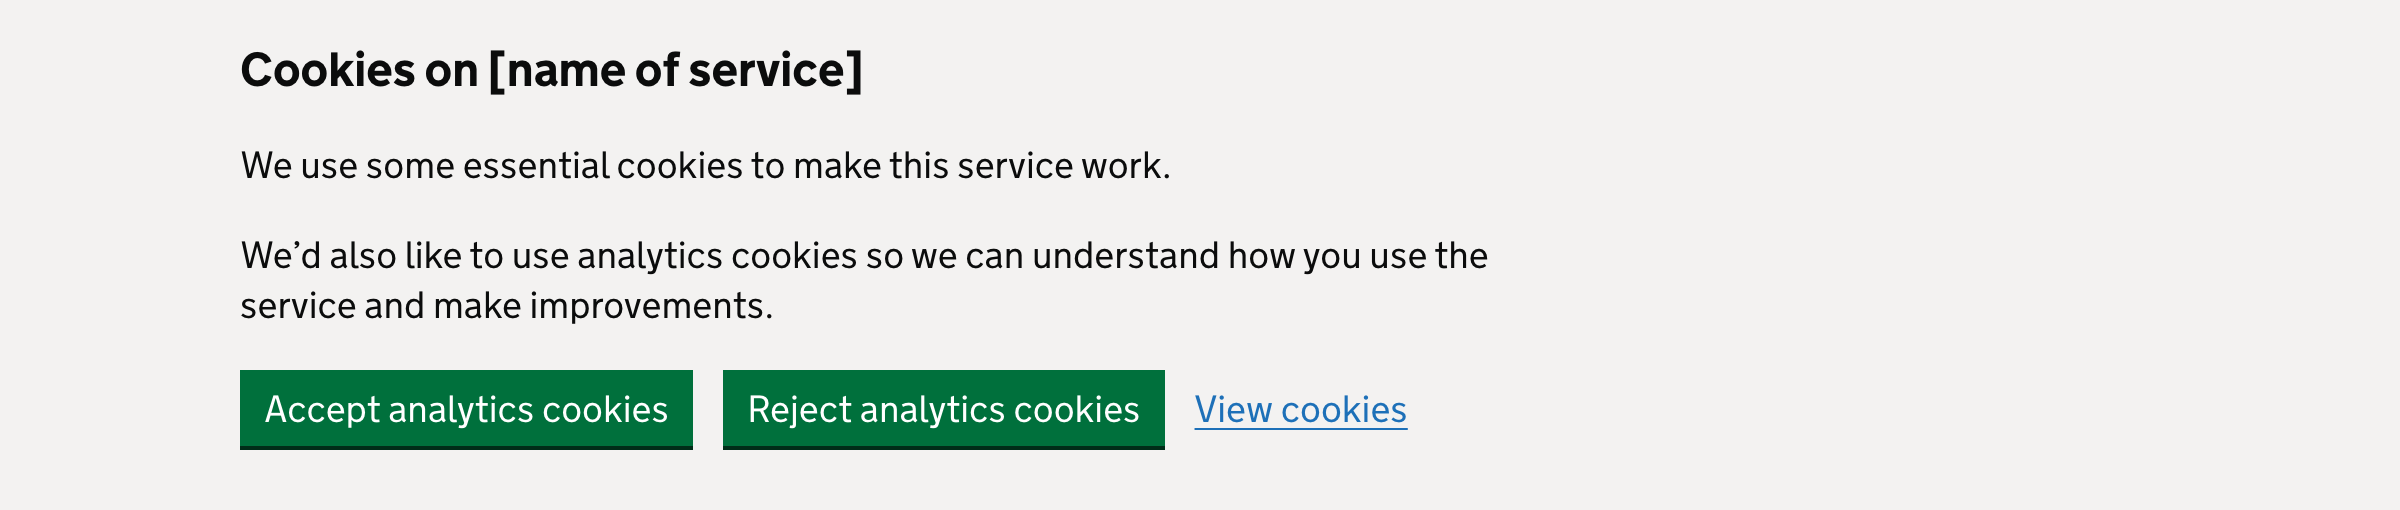
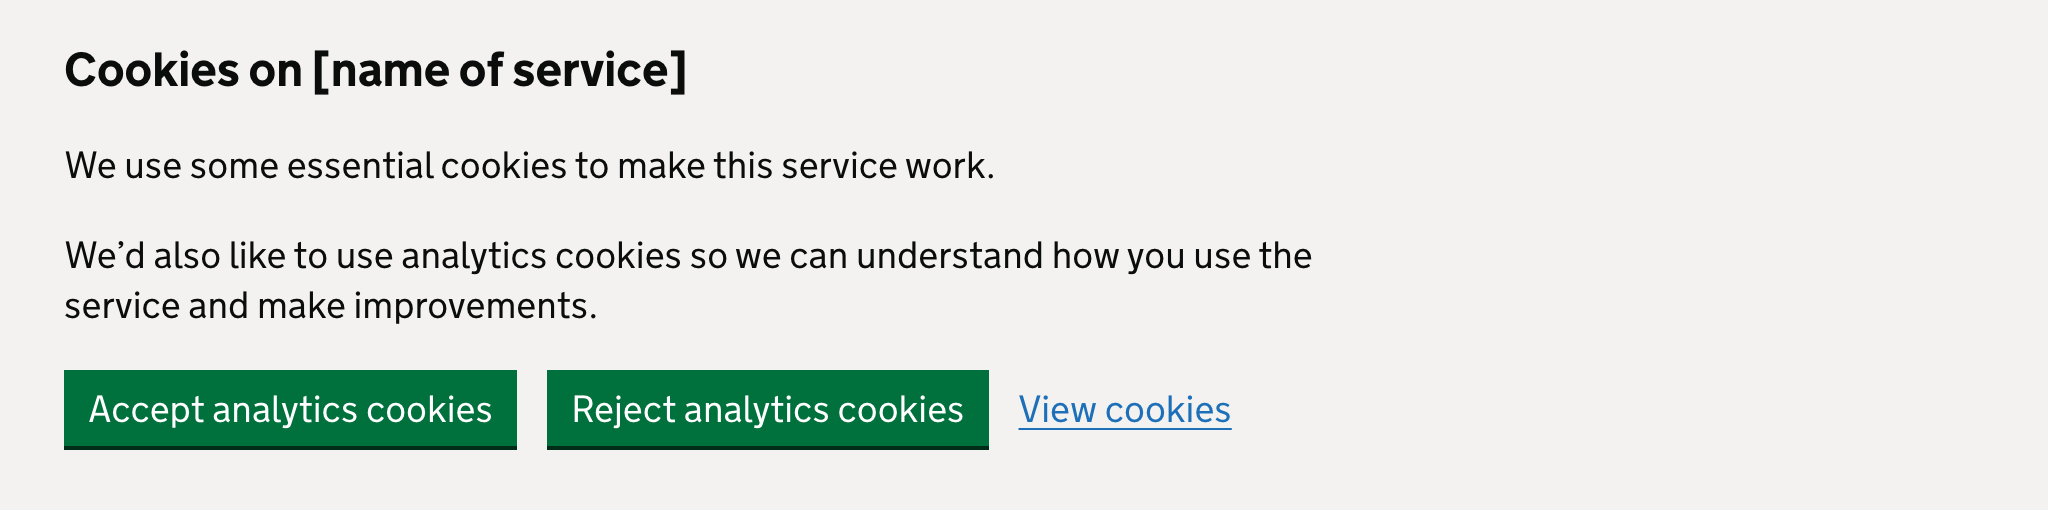
Constrain the viewport when generating screenshots

diff --git a/src/GovUk.Frontend.AspNetCore.Docs/Program.cs b/src/GovUk.Frontend.AspNetCore.Docs/Program.cs
@@ -71,7 +71,9 @@ async Task PublishDocsAsync()
         Args = ["--no-sandbox", "--disable-setuid-sandbox"],
         DefaultViewport = new ViewPortOptions()
         {
-            DeviceScaleFactor = 2
+            DeviceScaleFactor = 2,
+            Height = 768,
+            Width = 1024
         }
     });
 
